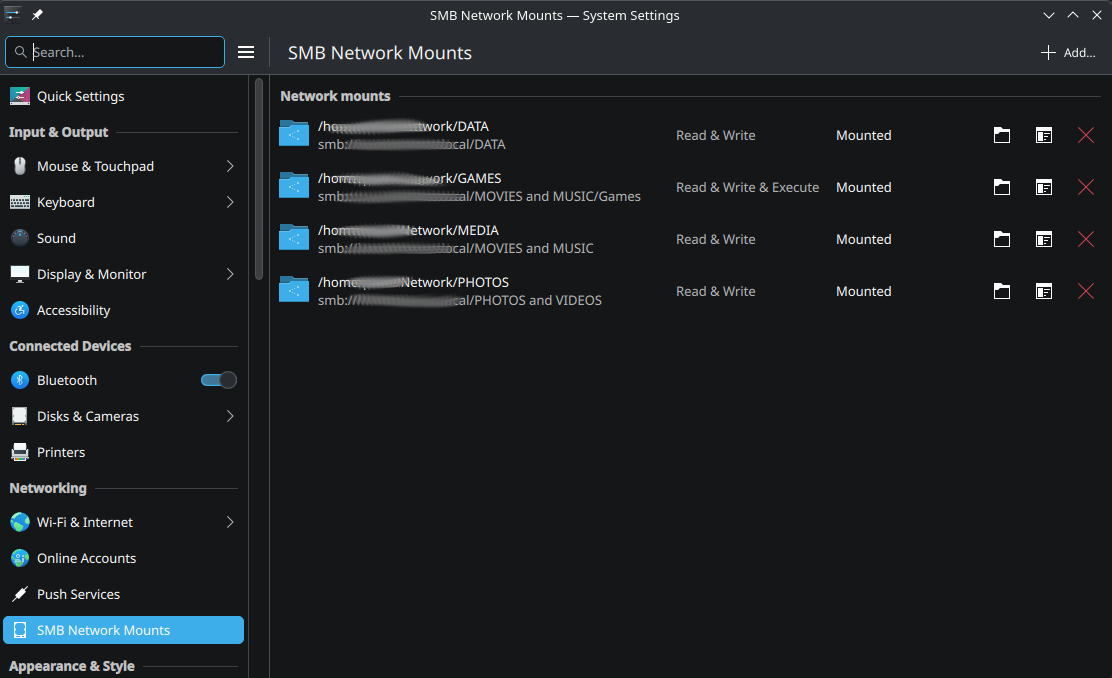
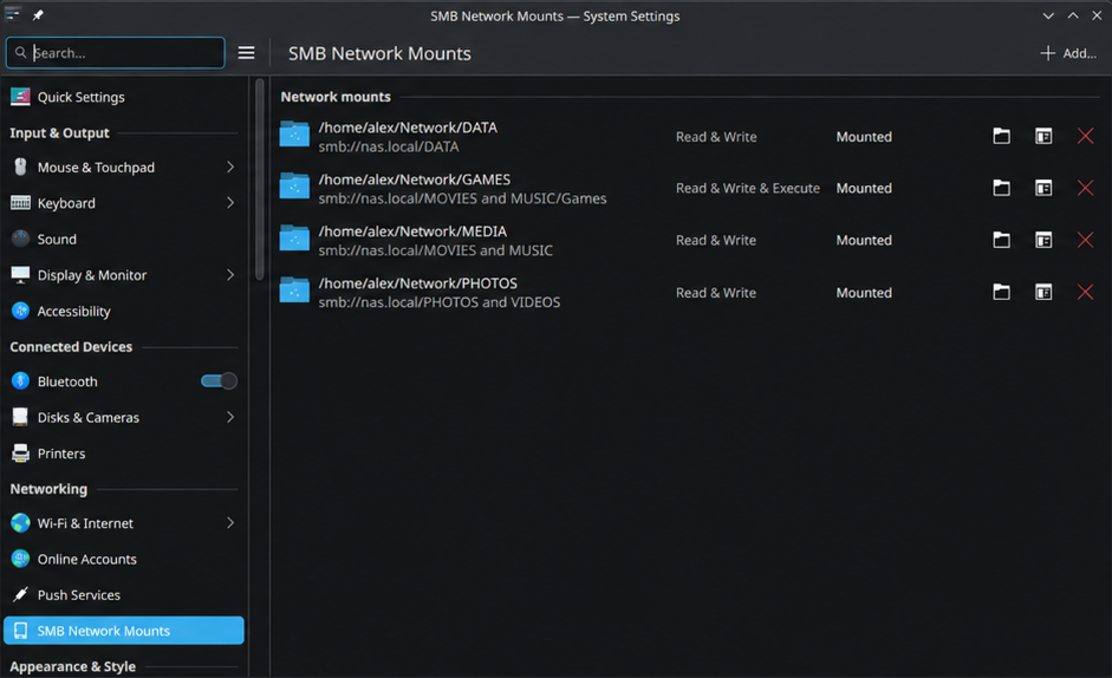
doc: Update readme.md (#19)

diff --git a/README.md b/README.md
@@ -6,10 +6,8 @@
 [![KDE Plasma 6](https://img.shields.io/badge/KDE%20Plasma-6-1d99f3)](#install)
 [![PRs welcome](https://img.shields.io/badge/PRs-welcome-brightgreen)](CONTRIBUTING.md)
 
-Mount SMB network shares from Dolphin in two clicks. No `fstab` editing, and
-mounts come back after reboot.
+![KDE NAS Mount desktop workflow: choose Mount as Network Drive in Dolphin, enter the mount settings, and manage SMB shares in System Settings. Actual application screenshots.](docs/img/readme-banner.png)
 
-![Network Mounts settings page](docs/img/img2.png)
 
 **Supported:** Kubuntu 26.04+ (`.deb`), Fedora KDE 44+ (`.rpm`). Other distros
 can build from source (Plasma 6 with KDE Frameworks 6.8+, Linux 6.8+).
@@ -41,6 +39,9 @@ sudo dnf install ./nasmount-fedora44-x86_64-<version>.rpm
    ![Mount as Network Drive dialog](docs/img/img1.png)
 
 3. Manage mounts in **System Settings → SMB Network Mounts**, or run `nasmount`.
+
+   ![Network Mounts settings page](docs/img/img2.png)
+
 
 ## How it works
 
